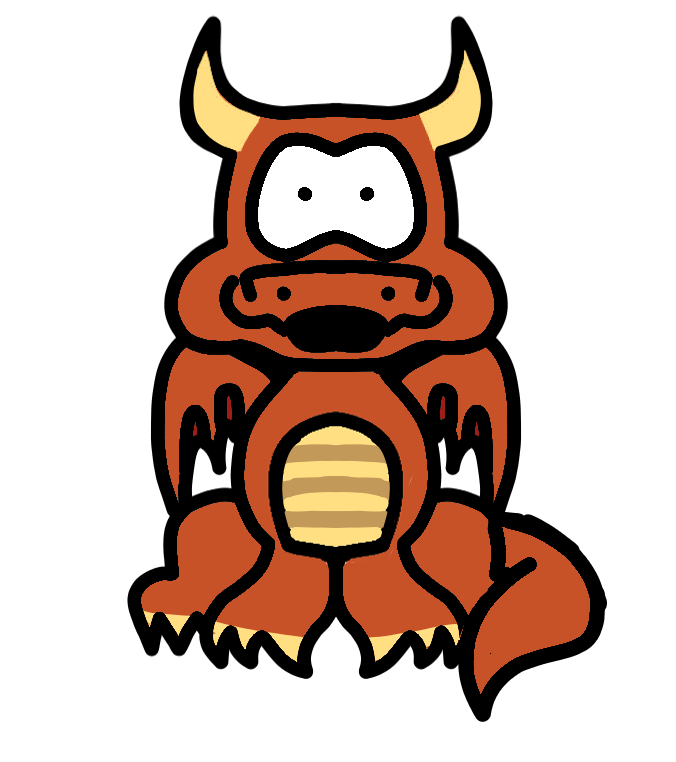
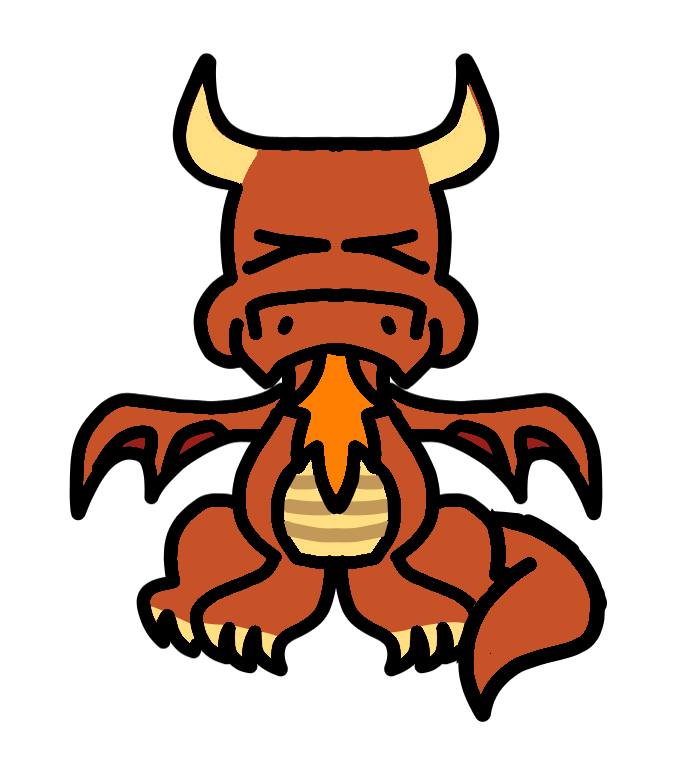
fix fire animation

Changed region(s): [[0.0932, 0.0, 0.9009, 0.9055]]

diff --git a/src/main.py b/src/main.py
@@ -52,6 +52,8 @@ ta = 0
 
 last_anim_update = pygame.time.get_ticks()
 
+current_sprite = "neutral1"
+
 while not exit:
     clock.tick(FPS)
     
@@ -62,6 +64,7 @@ while not exit:
             if line == "pressed":
                 dragon.set_action("breathe_fire")
                 dragon.change_health(-50)
+                sprite_value = 0
     except:
         pass
     
@@ -75,6 +78,7 @@ while not exit:
             if event.key == pygame.K_LCTRL:
                 dragon.set_action("breathe_fire")
                 dragon.change_health(-50)
+                sprite_value = 0
             
         if feedbutton.handle_event(event):
             dragon.change_health(100)
@@ -125,30 +129,25 @@ while not exit:
 
             with open("chatlog.txt", "a") as f:
                f.write("YOU: " + str(user_input) + "\nCheppie: " + bubble.get_text() + "\n")
-
-
-                
-            
-    if pygame.time.get_ticks() - last_anim_update > 333:
-        last_anim_update = pygame.time.get_ticks()
-        sprite_value = (sprite_value + 1) % 6
-        dragon.change_health(-2)
     
     if dragon.get_action() == "breathe_fire":
-        if sprite_value == 0:
+        cheppie = "fire" + str(sprite_value + 1)
+        if sprite_value == 5:
             cheppie = "neutral1"
-        else:
-            cheppie = "fire" + str(sprite_value + 1)
-            if sprite_value == 5:
-                dragon.set_action("idle")
+            dragon.set_action("idle")
     else:
         sprite_value = sprite_value % 2
         cheppie = dragon.get_mood() + str(sprite_value + 1)
         if dragon.get_action() == "talk" and sprite_value==1:
             cheppie = "talk" + cheppie
 
+    if pygame.time.get_ticks() - last_anim_update > 333:
+        last_anim_update = pygame.time.get_ticks()
+        sprite_value = (sprite_value + 1) % 6
+        dragon.change_health(-2)
+        current_sprite = cheppie
 
-    window.update(cheppie, dragon.get_health())
+    window.update(current_sprite, dragon.get_health())
     textbox.draw(window._Window__screen)
     bubble.draw(window._Window__screen)
     feedbutton.draw(window._Window__screen)

diff --git a/src/window.py b/src/window.py
@@ -21,11 +21,11 @@ class Window:
             "sad2": pygame.image.load("assets/sad2.png").convert_alpha(),
             "angry1": pygame.image.load("assets/angry1.png").convert_alpha(),
             "angry2": pygame.image.load("assets/angry2.png").convert_alpha(),
+            "fire1": pygame.image.load("assets/fire1.png").convert_alpha(),
             "fire2": pygame.image.load("assets/fire2.png").convert_alpha(),
             "fire3": pygame.image.load("assets/fire3.png").convert_alpha(),
             "fire4": pygame.image.load("assets/fire4.png").convert_alpha(),
             "fire5": pygame.image.load("assets/fire5.png").convert_alpha(),
-            "fire6": pygame.image.load("assets/fire6.png").convert_alpha(),
             "title": pygame.image.load("assets/title.png").convert_alpha(),
             "talkhappy2": pygame.image.load("assets/talkhappy2.png").convert_alpha(),
             "talkangry2": pygame.image.load("assets/talkangry2.png").convert_alpha(),
